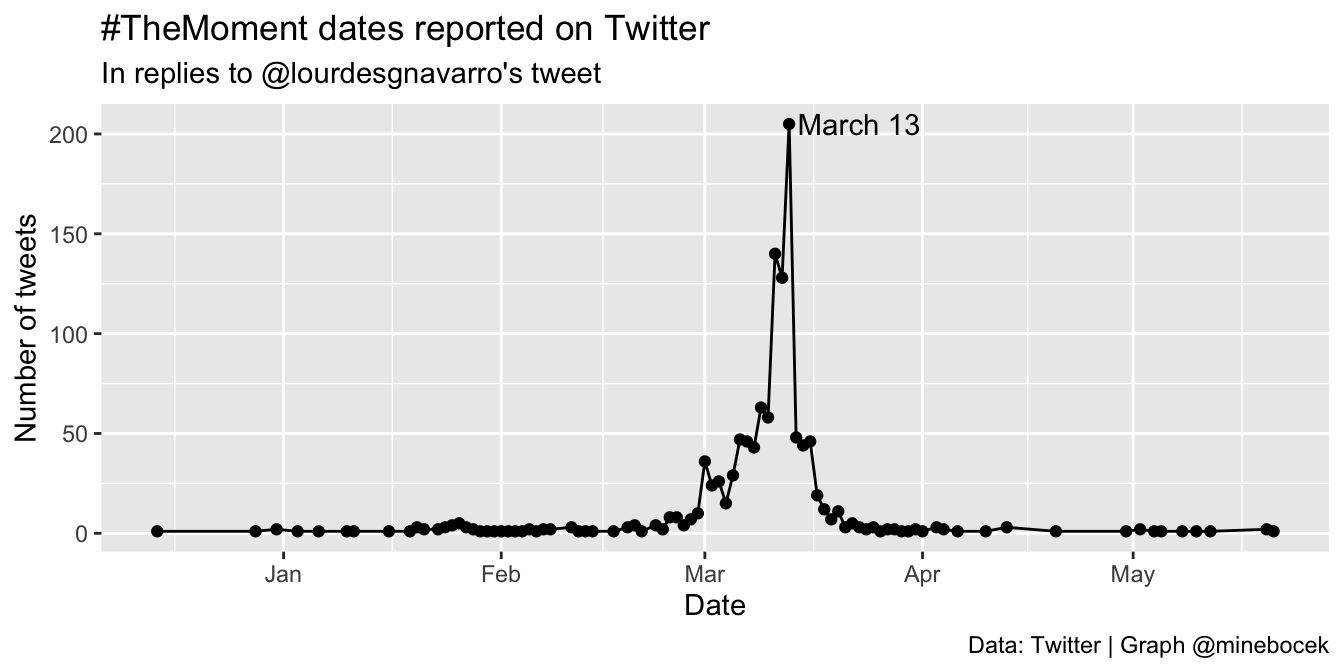
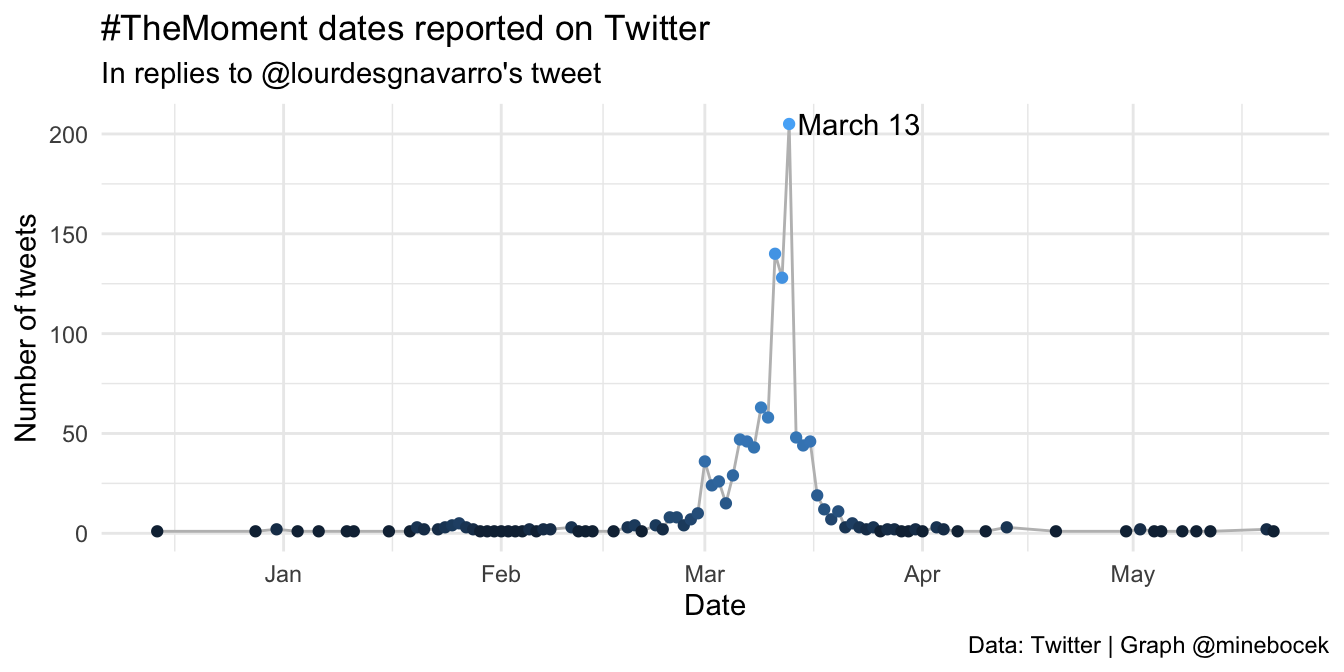
theme_minimal or bust!

diff --git a/content/post/2021-03-01-themoment-tweets.html b/content/post/2021-03-01-themoment-tweets.html
@@ -208,8 +208,8 @@ themoment</code></pre>
 <p>As expected based on previous results, I see lots of March dates, but March 13 seems to really stand out.</p>
 <p>Let’s also visualise these data over time.</p>
 <pre class="r"><code>ggplot(themoment, aes(x = date, y = n_total)) +
-  geom_point() +
-  geom_line() +
+  geom_line(color = &quot;gray&quot;) +
+  geom_point(aes(color = log(n_total)), show.legend = FALSE) +
   labs(
     x = &quot;Date&quot;,
     y = &quot;Number of tweets&quot;,
@@ -222,7 +222,8 @@ themoment</code></pre>
     x = mdy(&quot;March 13 2020&quot;) + 10,
     y = 205,
     label = &quot;March 13&quot;
-  )</code></pre>
+  ) +
+  theme_minimal()</code></pre>
 <p><img src="/post/2021-03-01-themoment-tweets_files/figure-html/unnamed-chunk-14-1.png" title="Very few tweets mentioning dates December through March, then a steady increase until a peak on March 13, and then a decline with a tail extending all the way to the end of May. There were over 200 tweets mentioning March 13," alt="Very few tweets mentioning dates December through March, then a steady increase until a peak on March 13, and then a decline with a tail extending all the way to the end of May. There were over 200 tweets mentioning March 13," width="100%" /></p>
 </div>
 <div id="what-happened-on-march-13-2020" class="section level2">
@@ -281,8 +282,12 @@ march_13_regex &lt;- glue_collapse(march_13_text, sep = &quot;|&quot;)</code></p
     nba          = str_detect(text, &quot;\\bnba\\b&quot;),
     spring_break = str_detect(text, &quot;\\bspring break\\b&quot;)
     ) %&gt;%
-  summarise(across(tom_hanks:spring_break, sum)) %&gt;%
-  mutate(across(tom_hanks:spring_break, ~ . / nrow(replies), .names = &quot;p_{.col}&quot;))</code></pre>
+  summarise(
+    across(tom_hanks:spring_break, sum)
+    ) %&gt;%
+  mutate(
+    across(tom_hanks:spring_break, ~ . / nrow(replies), .names = &quot;p_{.col}&quot;)
+    )</code></pre>
 <pre><code>## # A tibble: 1 x 6
 ##   tom_hanks   nba spring_break p_tom_hanks  p_nba p_spring_break
 ##       &lt;int&gt; &lt;int&gt;        &lt;int&gt;       &lt;dbl&gt;  &lt;dbl&gt;          &lt;dbl&gt;
